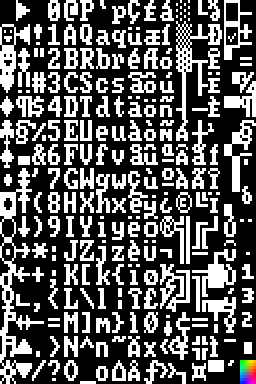
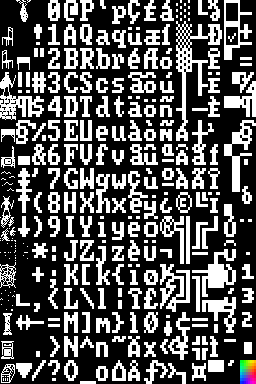
initial tile support

Changed region(s): [[0.0, 0.0, 0.125, 1.0]]

diff --git a/rooms/square.cpp b/rooms/square.cpp
@@ -55,9 +55,22 @@ ROOM_CONS(SquareRoom, int size)
 void
 SquareRoom::renderRoom(Tile *tiles, TileFactory *tileFactory)
 {
-    for(int y=m_y+1;y<m_y+m_h-1;y++){
-        for(int x=m_x+1;x<m_x+m_w-1;x++){
-            tiles[x+y*m_stride] = tileFactory->getTile("Stone Floor");
+    for(int y=0;y<m_h;y++){
+        for(int x=0;x<m_w;x++){
+            if(x==0 || y==0 || x==m_w-1 || y==m_h-1){
+                Tile *tile = getTile(x,y,tiles);
+                if(tile!=0){
+                    if(tile->m_walkable!=1){
+                        setTile(x,y,"Dungeon Wall",tiles,tileFactory);
+                    }
+                    else{
+                        setTile(x,y,"Dungeon Floor",tiles,tileFactory);
+                    }
+                }
+            }
+            else{
+                setTile(x,y,"Dungeon Floor",tiles,tileFactory);
+            }
         }
     }
 }

diff --git a/dungeon.cpp b/dungeon.cpp
@@ -80,12 +80,13 @@ Dungeon::generate(Level *level)
         int x = xDist(RAND);
         int y = yDist(RAND);
         if(isWalkable(x,y)){
-            /*Actor *actor = new Creature(level);
+            Actor *actor = new Creature(level);
             actor->m_x = x;
             actor->m_y = y;
-            actor->m_glyph = 'g';
+            actor->m_glyph = 8;
             actor->m_name = "Goblin";
-            m_actors->push_back(actor);*/
+            actor->m_color = TCODColor::darkGreen;
+            m_actors->push_back(actor);
         }
     }
 }

diff --git a/main.cpp b/main.cpp
@@ -176,6 +176,8 @@ main(int argc, char **argv)
                             level.m_player->startRun(1,1);update=false; break;
                         case 'e' :
                             level.m_player->m_hp--;update=false; break;
+                        case 'w' :
+                            level.m_player->m_hp++;update=false; break;
                         case 'i':
                             if(overlays.size() < 1){
                                 ListDefinition inventoryList[] = {

diff --git a/rooms/round.cpp b/rooms/round.cpp
@@ -12,8 +12,8 @@ ROOM_CONS(RoundRoom)
     boost::random::uniform_real_distribution<> angleDist(0.f,3.14f*2.f);
 	CavernConnectivityPoint point;
 	float doorAngle = angleDist(RAND);
-	point.x = m_x+cos(doorAngle)*float(m_radius);
-	point.y = m_y+sin(doorAngle)*float(m_radius);
+	point.x = m_x+cos(doorAngle)*float(m_radius-1.0f);
+	point.y = m_y+sin(doorAngle)*float(m_radius-1.0f);
 	point.tag = -1;
 	point.type = CON_DUN;
 	m_doors.push_back(point);

diff --git a/actor.cpp b/actor.cpp
@@ -4,7 +4,7 @@
 
 Actor::Actor(Level *level):
 	m_x(0),m_y(0),m_glyph('A'),m_hp(1),m_maxHp(1), m_level(level), m_dx(0),
-	m_dy(0), m_name("something"), m_ac(0)
+	m_dy(0), m_name("something"), m_ac(0), m_color(TCODColor::white)
 {
 }
 
@@ -47,6 +47,7 @@ Actor::walk(int dx,int dy)
 void
 Actor::render()
 {
+	TCODConsole::root->setDefaultForeground(m_color);
 	TCODConsole::root->putChar(m_x,m_y,m_glyph);
 }
 

diff --git a/level.cpp b/level.cpp
@@ -7,7 +7,6 @@ Level::Level(int dungeonWidth, int dungeonHeight)
 	m_fovMap = new TCODMap(dungeonWidth, dungeonHeight);
 	m_dungeonFovMap = new TCODMap(dungeonWidth, dungeonHeight);
 	m_player = new Player(this);
-    m_player->m_glyph = '@';
     m_player->m_x = DUNGEON_WIN_W-1;
     m_player->m_y = (DUNGEON_WIN_H)/2;
 	m_playerAlive = true;

diff --git a/actor.h b/actor.h
@@ -34,6 +34,7 @@ class Actor
 		virtual bool reflSave(int dc);
 		int m_x, m_y;
 		char m_glyph;
+		TCODColor m_color;
 		int m_hp, m_maxHp;
 		int m_dx, m_dy;
 		int m_ac;

diff --git a/player.cpp b/player.cpp
@@ -4,7 +4,7 @@
 Player::Player(Level *level):
 	Creature(level)
 {
-	m_glyph = '@';
+	m_glyph = 3;
 	m_running = false;
 	m_hitDie = 8;
 	m_hp = m_maxHp = m_hitDie;
